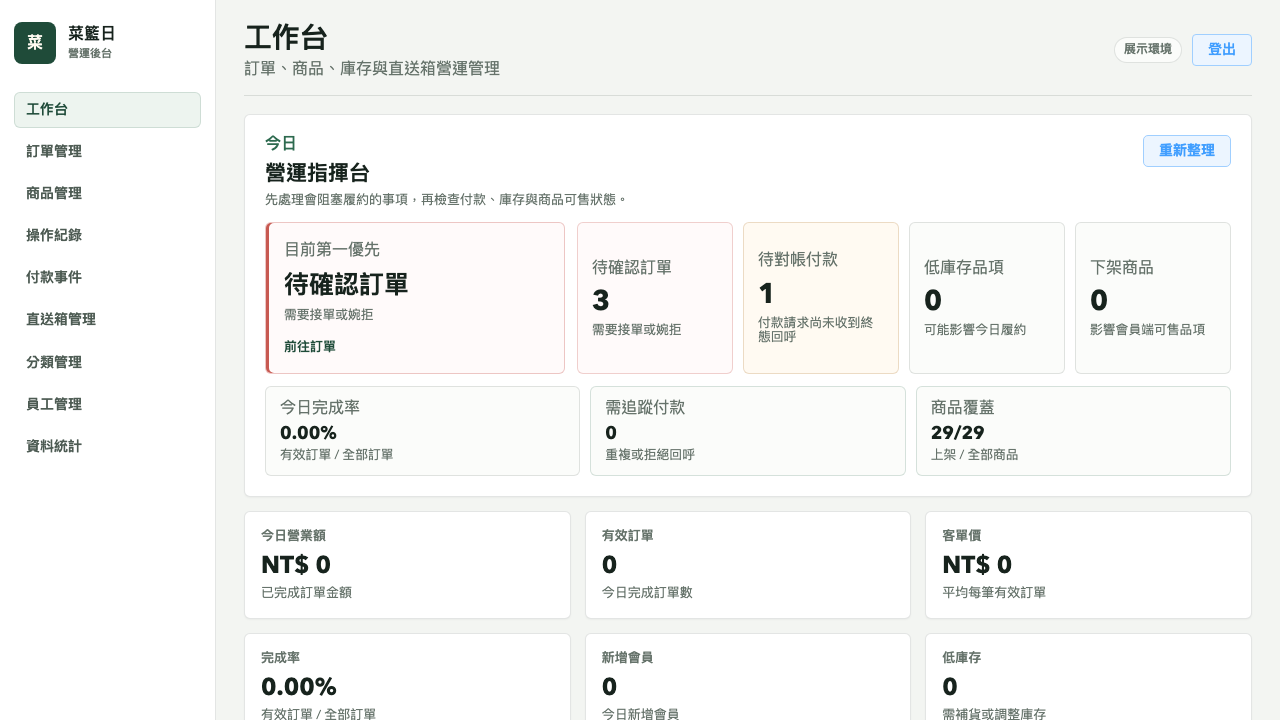
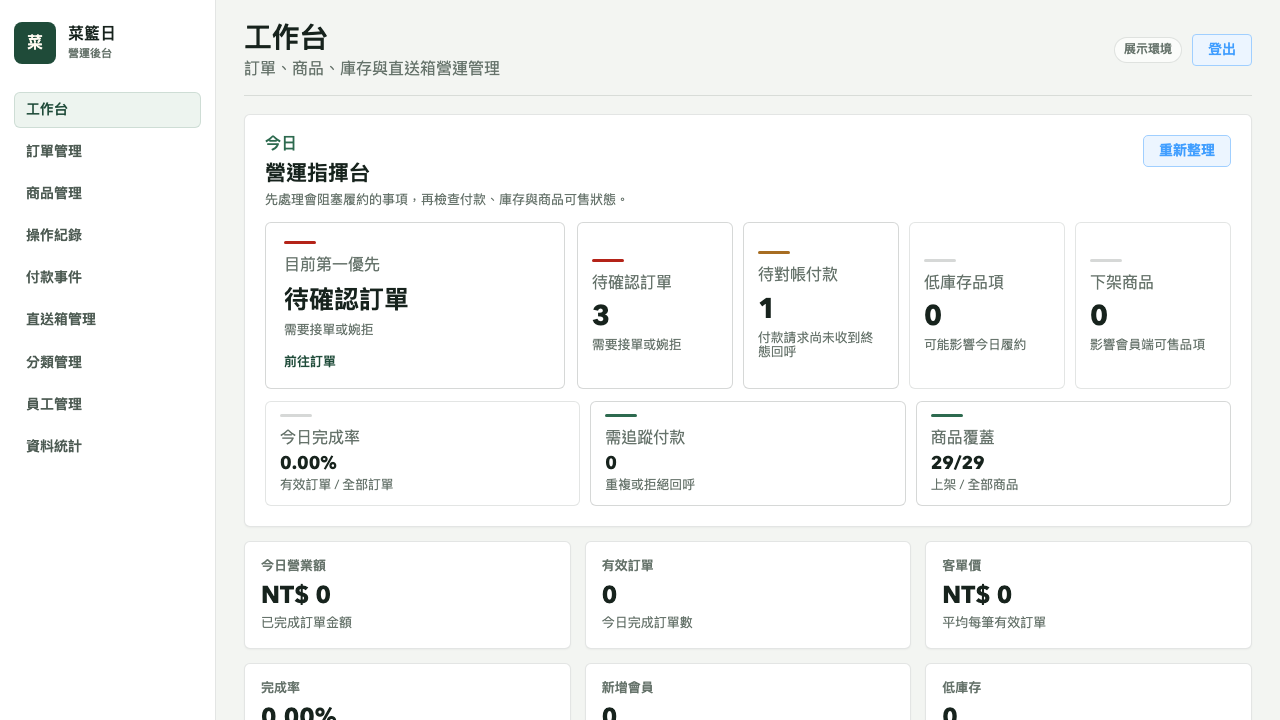
style: reduce dashboard template feel

diff --git a/frontend-environment/local-fresh-user/src/App.vue b/frontend-environment/local-fresh-user/src/App.vue
@@ -28,6 +28,50 @@
       <main class="view-shell" :class="{ 'with-navbar': showNavbar }">
         <RouterView />
       </main>
+
+      <footer v-if="showNavbar" class="site-footer">
+        <div class="site-footer-inner">
+          <div class="footer-brand">
+            <span class="brand-mark">菜</span>
+            <div>
+              <strong>菜籃日</strong>
+              <small>在地小農生鮮配送</small>
+            </div>
+          </div>
+
+          <nav class="footer-links" aria-label="服務資訊">
+            <section>
+              <h2>服務</h2>
+              <RouterLink to="/">瀏覽商品</RouterLink>
+              <RouterLink to="/cart">購物車</RouterLink>
+              <RouterLink to="/orders">訂單紀錄</RouterLink>
+            </section>
+            <section>
+              <h2>會員</h2>
+              <RouterLink to="/addresses">常用地址</RouterLink>
+              <RouterLink to="/orders">配送進度</RouterLink>
+              <a href="mailto:support@local-fresh.example">客服信箱</a>
+            </section>
+            <section>
+              <h2>營運資訊</h2>
+              <span>配送區域：台北市、新北市示範區</span>
+              <span>客服時間：週一至週日 09:00-21:00</span>
+              <span>付款方式：展示支付、綠界測試環境</span>
+            </section>
+          </nav>
+
+          <div class="footer-service-note" aria-label="服務承諾">
+            <span>冷藏配送</span>
+            <span>每日 14:00 前截單</span>
+            <span>付款與訂單狀態全程留痕</span>
+          </div>
+
+          <div class="footer-bottom">
+            <span>© 2026 菜籃日 Local Fresh Platform</span>
+            <span>展示環境，訂單與付款資料僅供作品驗證。</span>
+          </div>
+        </div>
+      </footer>
     </div>
   </el-config-provider>
 </template>
@@ -197,6 +241,100 @@ a {
   padding-top: 0;
 }
 
+.site-footer {
+  margin-top: 56px;
+  border-top: 1px solid var(--farm-line);
+  background: #ffffff;
+}
+
+.site-footer-inner {
+  width: min(1180px, calc(100% - 32px));
+  margin: 0 auto;
+  padding: 30px 0 24px;
+}
+
+.footer-brand {
+  display: inline-flex;
+  align-items: center;
+  gap: 10px;
+  color: var(--farm-primary-deep);
+}
+
+.footer-brand strong,
+.footer-brand small {
+  display: block;
+}
+
+.footer-brand strong {
+  font-size: 18px;
+  line-height: 1.2;
+}
+
+.footer-brand small {
+  margin-top: 2px;
+  color: var(--farm-muted);
+  font-size: 12px;
+}
+
+.footer-links {
+  display: grid;
+  grid-template-columns: 0.8fr 0.8fr 1.6fr;
+  gap: 32px;
+  margin-top: 24px;
+}
+
+.footer-links section {
+  display: grid;
+  gap: 9px;
+  align-content: start;
+}
+
+.footer-links h2 {
+  margin: 0 0 3px;
+  color: var(--farm-text);
+  font-size: 14px;
+  line-height: 1.3;
+}
+
+.footer-links a,
+.footer-links span {
+  color: var(--farm-muted);
+  font-size: 13px;
+  line-height: 1.5;
+}
+
+.footer-links a:hover {
+  color: var(--farm-primary-deep);
+}
+
+.footer-bottom {
+  display: flex;
+  flex-wrap: wrap;
+  gap: 8px 18px;
+  margin-top: 16px;
+  padding-top: 16px;
+  border-top: 1px solid var(--farm-line);
+  color: var(--farm-muted);
+  font-size: 12px;
+}
+
+.footer-service-note {
+  display: flex;
+  flex-wrap: wrap;
+  gap: 8px;
+  margin-top: 24px;
+}
+
+.footer-service-note span {
+  padding: 6px 10px;
+  border: 1px solid var(--farm-line);
+  border-radius: 999px;
+  background: var(--farm-surface-strong);
+  color: #4d5b53;
+  font-size: 12px;
+  font-weight: 700;
+}
+
 .home-shell,
 .cart-shell,
 .orders-shell,
@@ -295,6 +433,19 @@ a {
   .orders-shell,
   .page-shell {
     width: min(100% - 24px, 1180px);
+  }
+
+  .site-footer {
+    margin-top: 36px;
+  }
+
+  .site-footer-inner {
+    width: min(100% - 24px, 1180px);
+  }
+
+  .footer-links {
+    grid-template-columns: 1fr;
+    gap: 22px;
   }
 }
 

diff --git a/frontend-environment/local-fresh-admin/src/views/vue3/DashboardView.vue b/frontend-environment/local-fresh-admin/src/views/vue3/DashboardView.vue
@@ -596,6 +596,7 @@ h2 {
 .priority-card,
 .queue-tile,
 .overview-tile {
+  position: relative;
   cursor: pointer;
   transition: border-color 0.18s ease, background-color 0.18s ease;
 }
@@ -603,25 +604,47 @@ h2 {
 .priority-card {
   min-height: 150px;
   padding: 18px;
-  background: #fbfcfa;
+  background: #ffffff;
 }
 
 .priority-card.danger {
-  border-color: rgba(180, 35, 24, 0.24);
-  background: #fffafa;
-  box-shadow: inset 3px 0 0 rgba(180, 35, 24, 0.75);
+  border-color: var(--admin-line-strong);
 }
 
 .priority-card.warning {
-  border-color: rgba(167, 109, 34, 0.25);
-  background: #fffaf2;
-  box-shadow: inset 3px 0 0 rgba(167, 109, 34, 0.72);
+  border-color: var(--admin-line-strong);
 }
 
 .priority-card.success {
-  border-color: rgba(45, 106, 79, 0.22);
-  background: #f8faf7;
-  box-shadow: inset 3px 0 0 rgba(45, 106, 79, 0.72);
+  border-color: var(--admin-line-strong);
+}
+
+.priority-card::before,
+.queue-tile::before,
+.health-item::before {
+  content: "";
+  display: block;
+  width: 32px;
+  height: 3px;
+  margin-bottom: 12px;
+  border-radius: 999px;
+  background: var(--admin-line-strong);
+}
+
+.priority-card.danger::before,
+.queue-tile.danger::before {
+  background: var(--admin-danger);
+}
+
+.priority-card.warning::before,
+.queue-tile.warning::before,
+.health-item.warning::before {
+  background: var(--admin-gold);
+}
+
+.priority-card.success::before,
+.health-item.success::before {
+  background: var(--admin-green);
 }
 
 .priority-card span,
@@ -658,17 +681,15 @@ h2 {
   min-width: 0;
   min-height: 150px;
   padding: 14px;
-  background: #fbfcfa;
+  background: #ffffff;
 }
 
 .queue-tile.danger {
-  border-color: rgba(180, 35, 24, 0.2);
-  background: #fffafa;
+  border-color: var(--admin-line-strong);
 }
 
 .queue-tile.warning {
-  border-color: rgba(167, 109, 34, 0.22);
-  background: #fffaf2;
+  border-color: var(--admin-line-strong);
 }
 
 .queue-tile strong {
@@ -697,16 +718,15 @@ h2 {
   padding: 12px 14px;
   border: 1px solid var(--admin-line);
   border-radius: 6px;
-  background: #fbfcfa;
+  background: #ffffff;
 }
 
 .health-item.warning {
-  border-color: rgba(167, 109, 34, 0.2);
-  background: #fffaf2;
+  border-color: var(--admin-line-strong);
 }
 
 .health-item.success {
-  border-color: rgba(45, 106, 79, 0.18);
+  border-color: var(--admin-line-strong);
 }
 
 .health-item strong {
@@ -771,8 +791,13 @@ h2 {
 }
 
 .ops-panel.urgent {
-  border-color: rgba(180, 35, 24, 0.22);
-  box-shadow: inset 3px 0 0 rgba(180, 35, 24, 0.72);
+  border-color: var(--admin-line-strong);
+  box-shadow: none;
+}
+
+.ops-panel.urgent .ops-panel-title {
+  padding-left: 10px;
+  border-left: 3px solid var(--admin-danger);
 }
 
 .ops-panel-title,

diff --git a/frontend-environment/local-fresh-admin/src/views/vue3/PaymentEventsView.vue b/frontend-environment/local-fresh-admin/src/views/vue3/PaymentEventsView.vue
@@ -443,20 +443,41 @@ onMounted(() => {
 }
 
 .reconciliation-primary.danger {
-  border-color: rgba(180, 35, 24, 0.24);
-  background: #fffafa;
-  box-shadow: inset 3px 0 0 rgba(180, 35, 24, 0.72);
+  border-color: var(--admin-line-strong);
 }
 
 .reconciliation-primary.warning {
-  border-color: rgba(167, 109, 34, 0.25);
-  background: #fffaf2;
-  box-shadow: inset 3px 0 0 rgba(167, 109, 34, 0.72);
+  border-color: var(--admin-line-strong);
 }
 
 .reconciliation-primary.success {
-  border-color: rgba(45, 106, 79, 0.2);
-  box-shadow: inset 3px 0 0 rgba(45, 106, 79, 0.68);
+  border-color: var(--admin-line-strong);
+}
+
+.reconciliation-primary::before,
+.payment-summary-card::before {
+  content: "";
+  display: block;
+  width: 30px;
+  height: 3px;
+  margin-bottom: 11px;
+  border-radius: 999px;
+  background: var(--admin-line-strong);
+}
+
+.reconciliation-primary.danger::before,
+.payment-summary-card.danger::before {
+  background: var(--admin-danger);
+}
+
+.reconciliation-primary.warning::before,
+.payment-summary-card.warning::before {
+  background: var(--admin-gold);
+}
+
+.reconciliation-primary.success::before,
+.payment-summary-card.success::before {
+  background: var(--admin-green);
 }
 
 .payment-summary {
@@ -474,17 +495,15 @@ onMounted(() => {
 }
 
 .payment-summary-card.warning {
-  border-color: rgba(167, 109, 34, 0.22);
-  background: #fffaf2;
+  border-color: var(--admin-line-strong);
 }
 
 .payment-summary-card.danger {
-  border-color: rgba(180, 35, 24, 0.22);
-  background: #fffafa;
+  border-color: var(--admin-line-strong);
 }
 
 .payment-summary-card.success {
-  border-color: rgba(45, 106, 79, 0.18);
+  border-color: var(--admin-line-strong);
 }
 
 .reconciliation-primary span,
